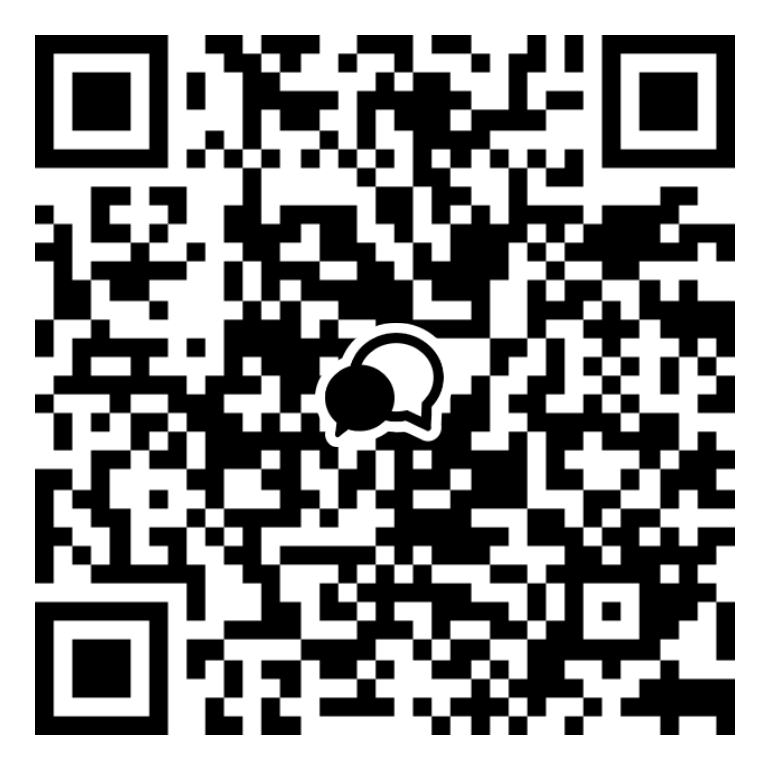
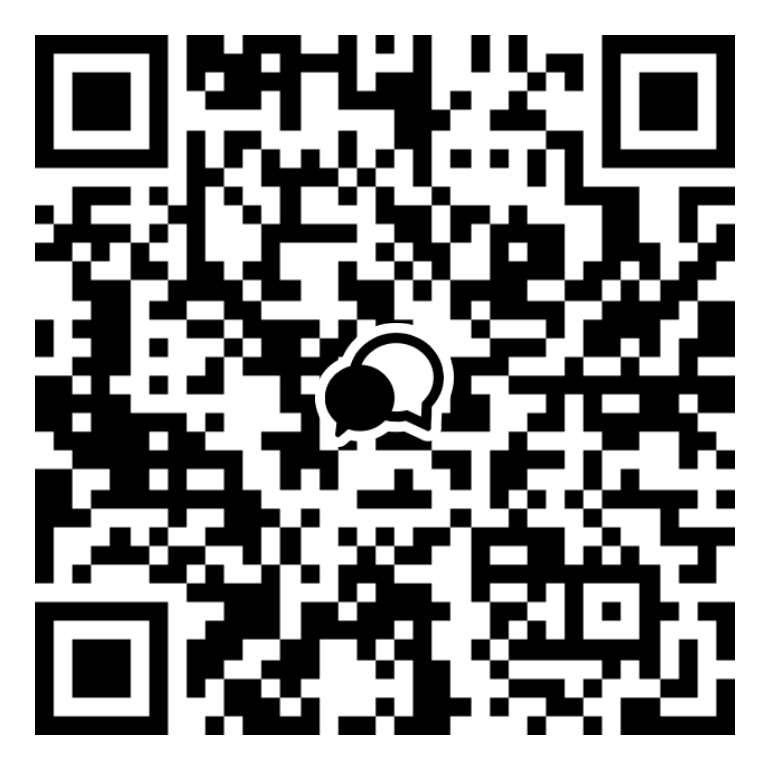
오픈카카오 링크 변경

diff --git a/kwangwoon/index.html b/kwangwoon/index.html
@@ -201,11 +201,11 @@
         </span>
         <img class="hero_descriptionImg" src="img/description.png">
       </p>
-      <a class="hero_link" target="_blank" href="https://open.kakao.com/o/gKdXbsXb"></a>
+      <a class="hero_link" target="_blank" href="https://open.kakao.com/o/gAxk6FXb"></a>
     </div>
     <div class="notice">
       20학번 신입생 여러분!<br>
-      신입생 OT,새터 등 모든 행사가 취소됨에 따라서, 광운선교회 UBF에서는 신입생 여러분에게 도움을 주고자 <a target="_blank" href="https://open.kakao.com/o/gKdXbsXb">오픈카톡방</a>을 개설하였습니다.<br>
+      신입생 OT,새터 등 모든 행사가 취소됨에 따라서, 광운선교회 UBF에서는 신입생 여러분에게 도움을 주고자 <a target="_blank" href="https://open.kakao.com/o/gAxk6FXb">오픈카톡방</a>을 개설하였습니다.<br>
       수강신청, 학사제도, 동아리 등 학교생활 궁금한 점이 있으면 언제든 오픈채팅으로 연락주세요. :D
     </div>
     <div class="info">
@@ -217,7 +217,7 @@
         우리 동아리에서는 <span style="font-size: 16px; font-weight: 800;">성경모임, 점심식사, 맛집탐방, MT, 축제참여, 해외여행</span> 등 친목도모를 위한 다양한 활동들을 하고있어요<br>
       </p>
       <div class="info_box">
-        오픈채팅 : <a target="_blank" href="https://open.kakao.com/o/gKdXbsXb">광운UBF</a> | 지도교수 : 이종철(전자융합)
+        오픈채팅 : <a target="_blank" href="https://open.kakao.com/o/gAxk6FXb">광운UBF</a> | 지도교수 : 이종철(전자융합)
       </div>
       <!-- <div class="info_annotation">
       </div> -->
@@ -298,7 +298,7 @@
     <footer class="footer">
       <p class="footer_info">
         주소: 서울시 노원구 월계동 402-7 4층<br>
-        오픈채팅: <a href="https://open.kakao.com/o/gKdXbsXb" target="_blank">https://open.kakao.com/o/gKdXbsXb</a>
+        오픈채팅: <a href="https://open.kakao.com/o/gAxk6FXb" target="_blank">https://open.kakao.com/o/gAxk6FXb</a>
       </p>
       <span class="footer_copyright">
         ⓒ 2020. Kwangwoon UBF. All right reserved.
